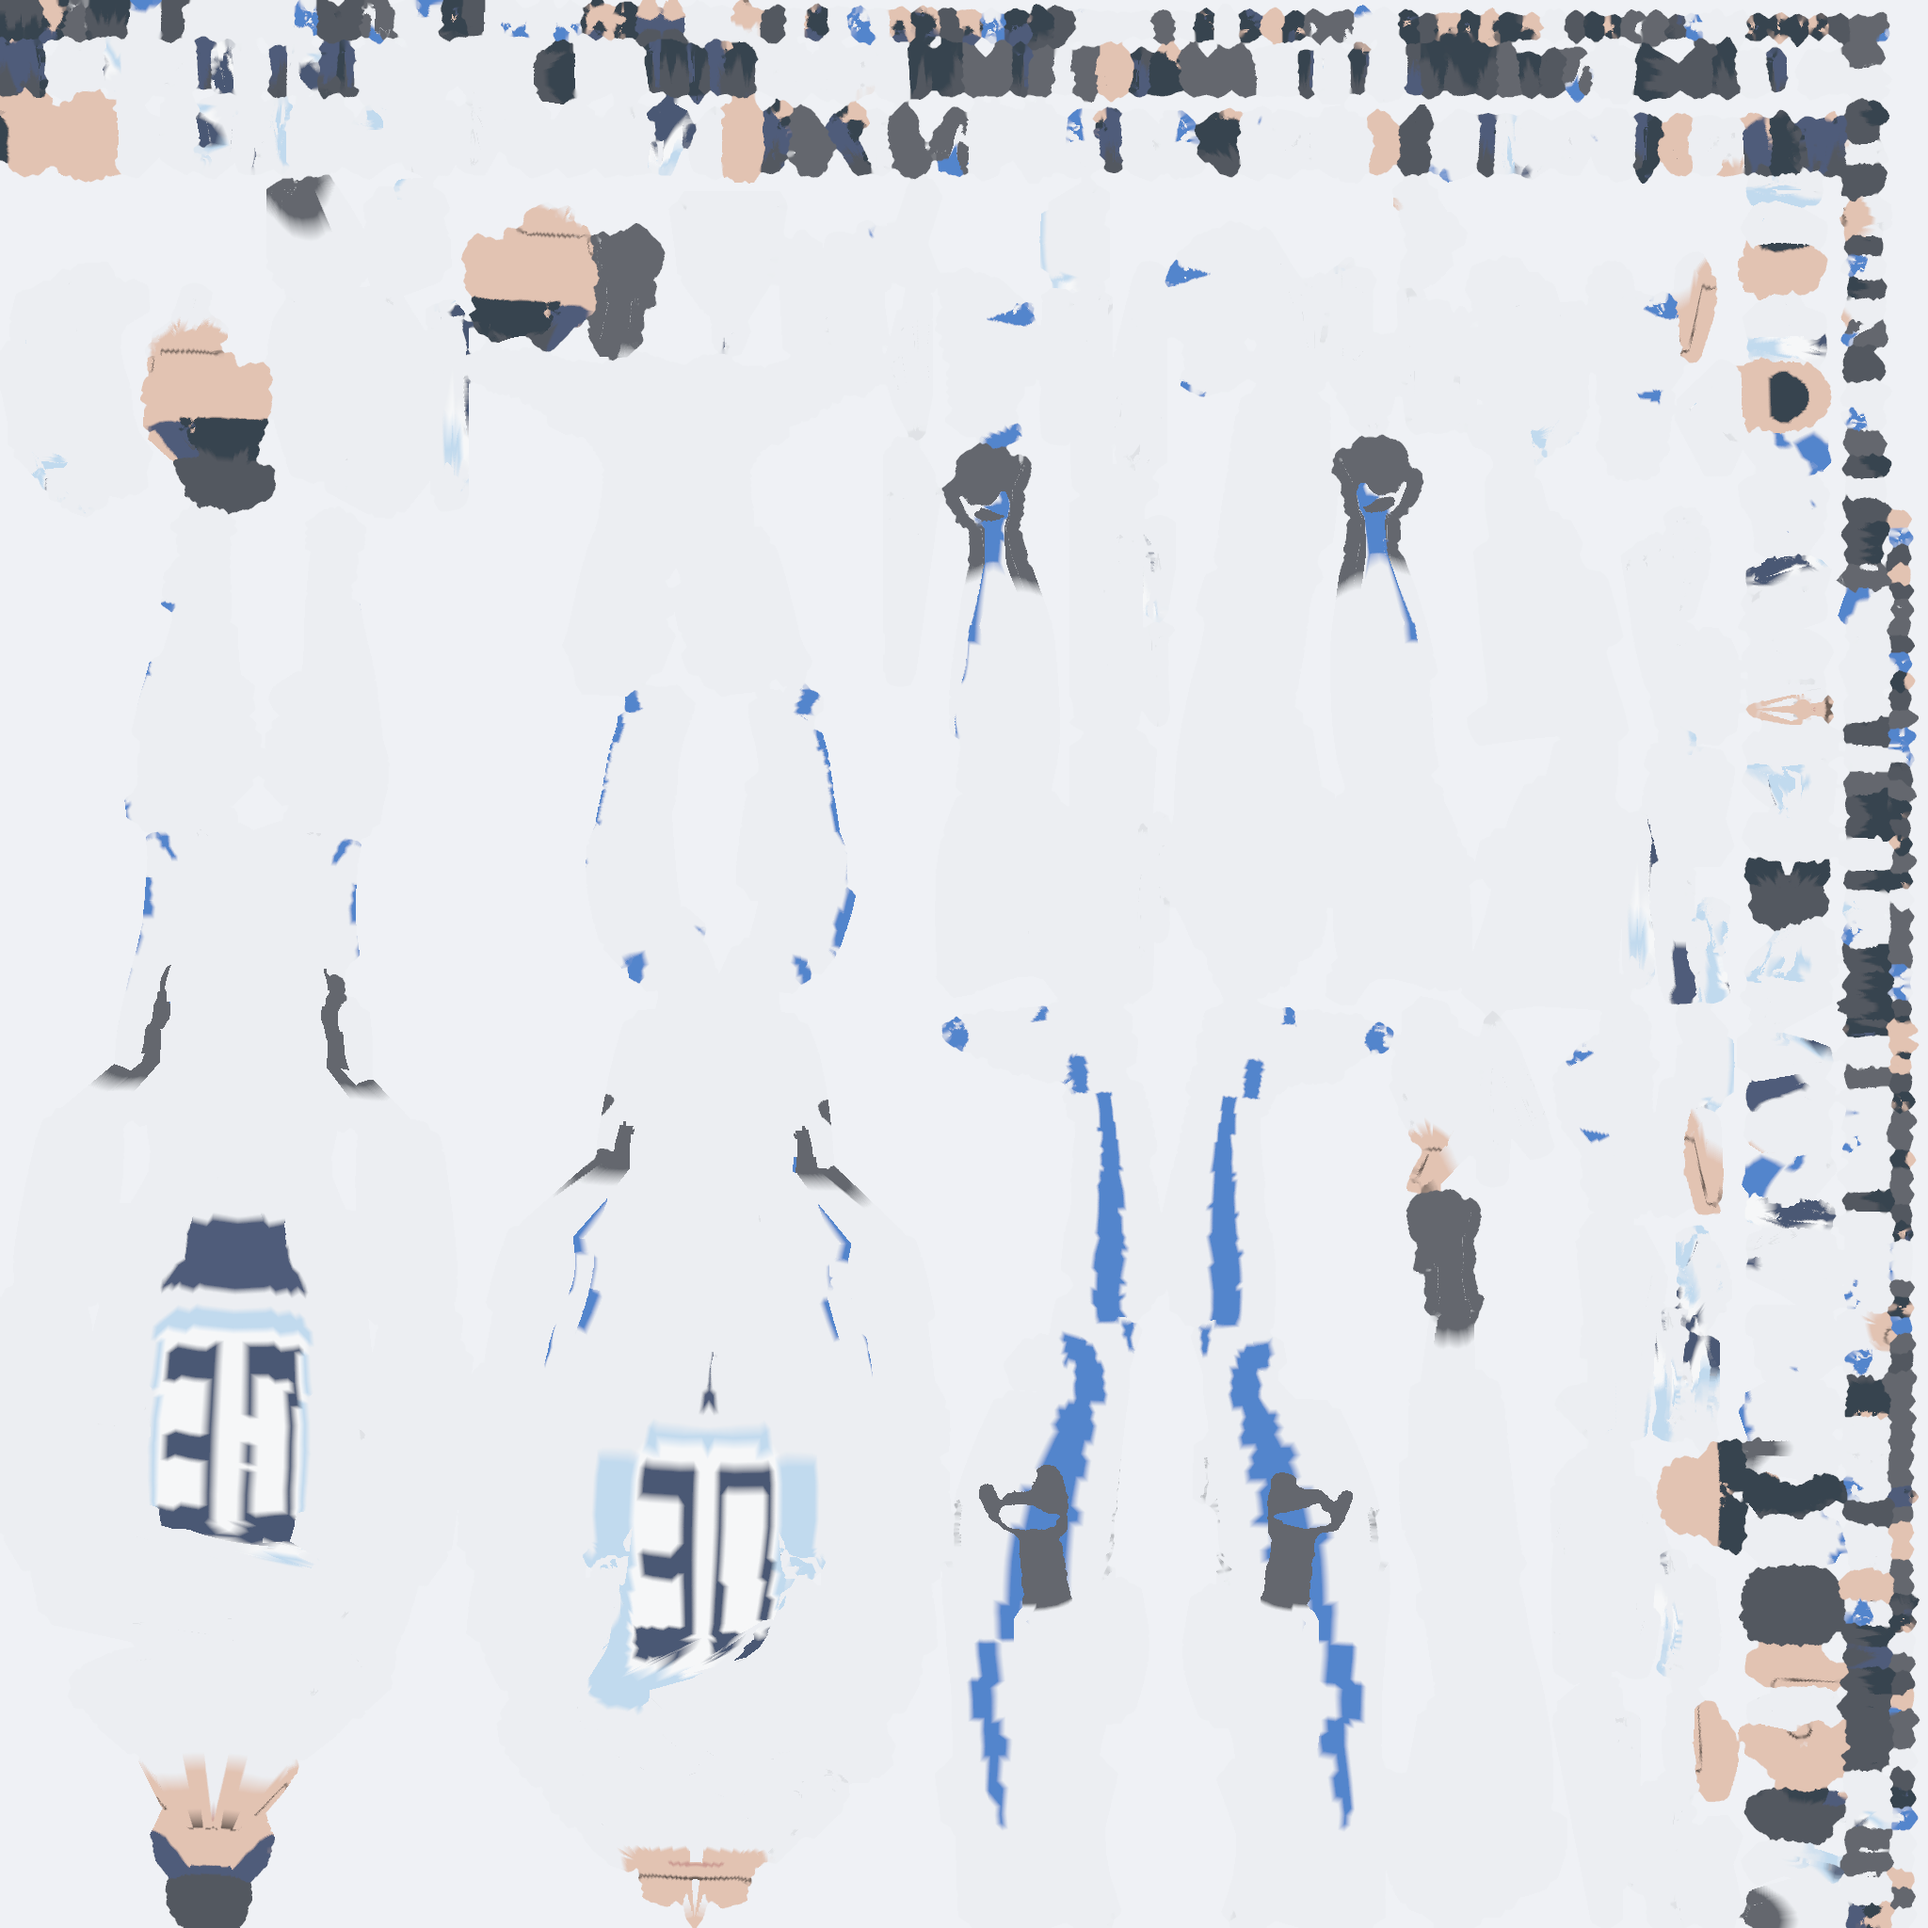
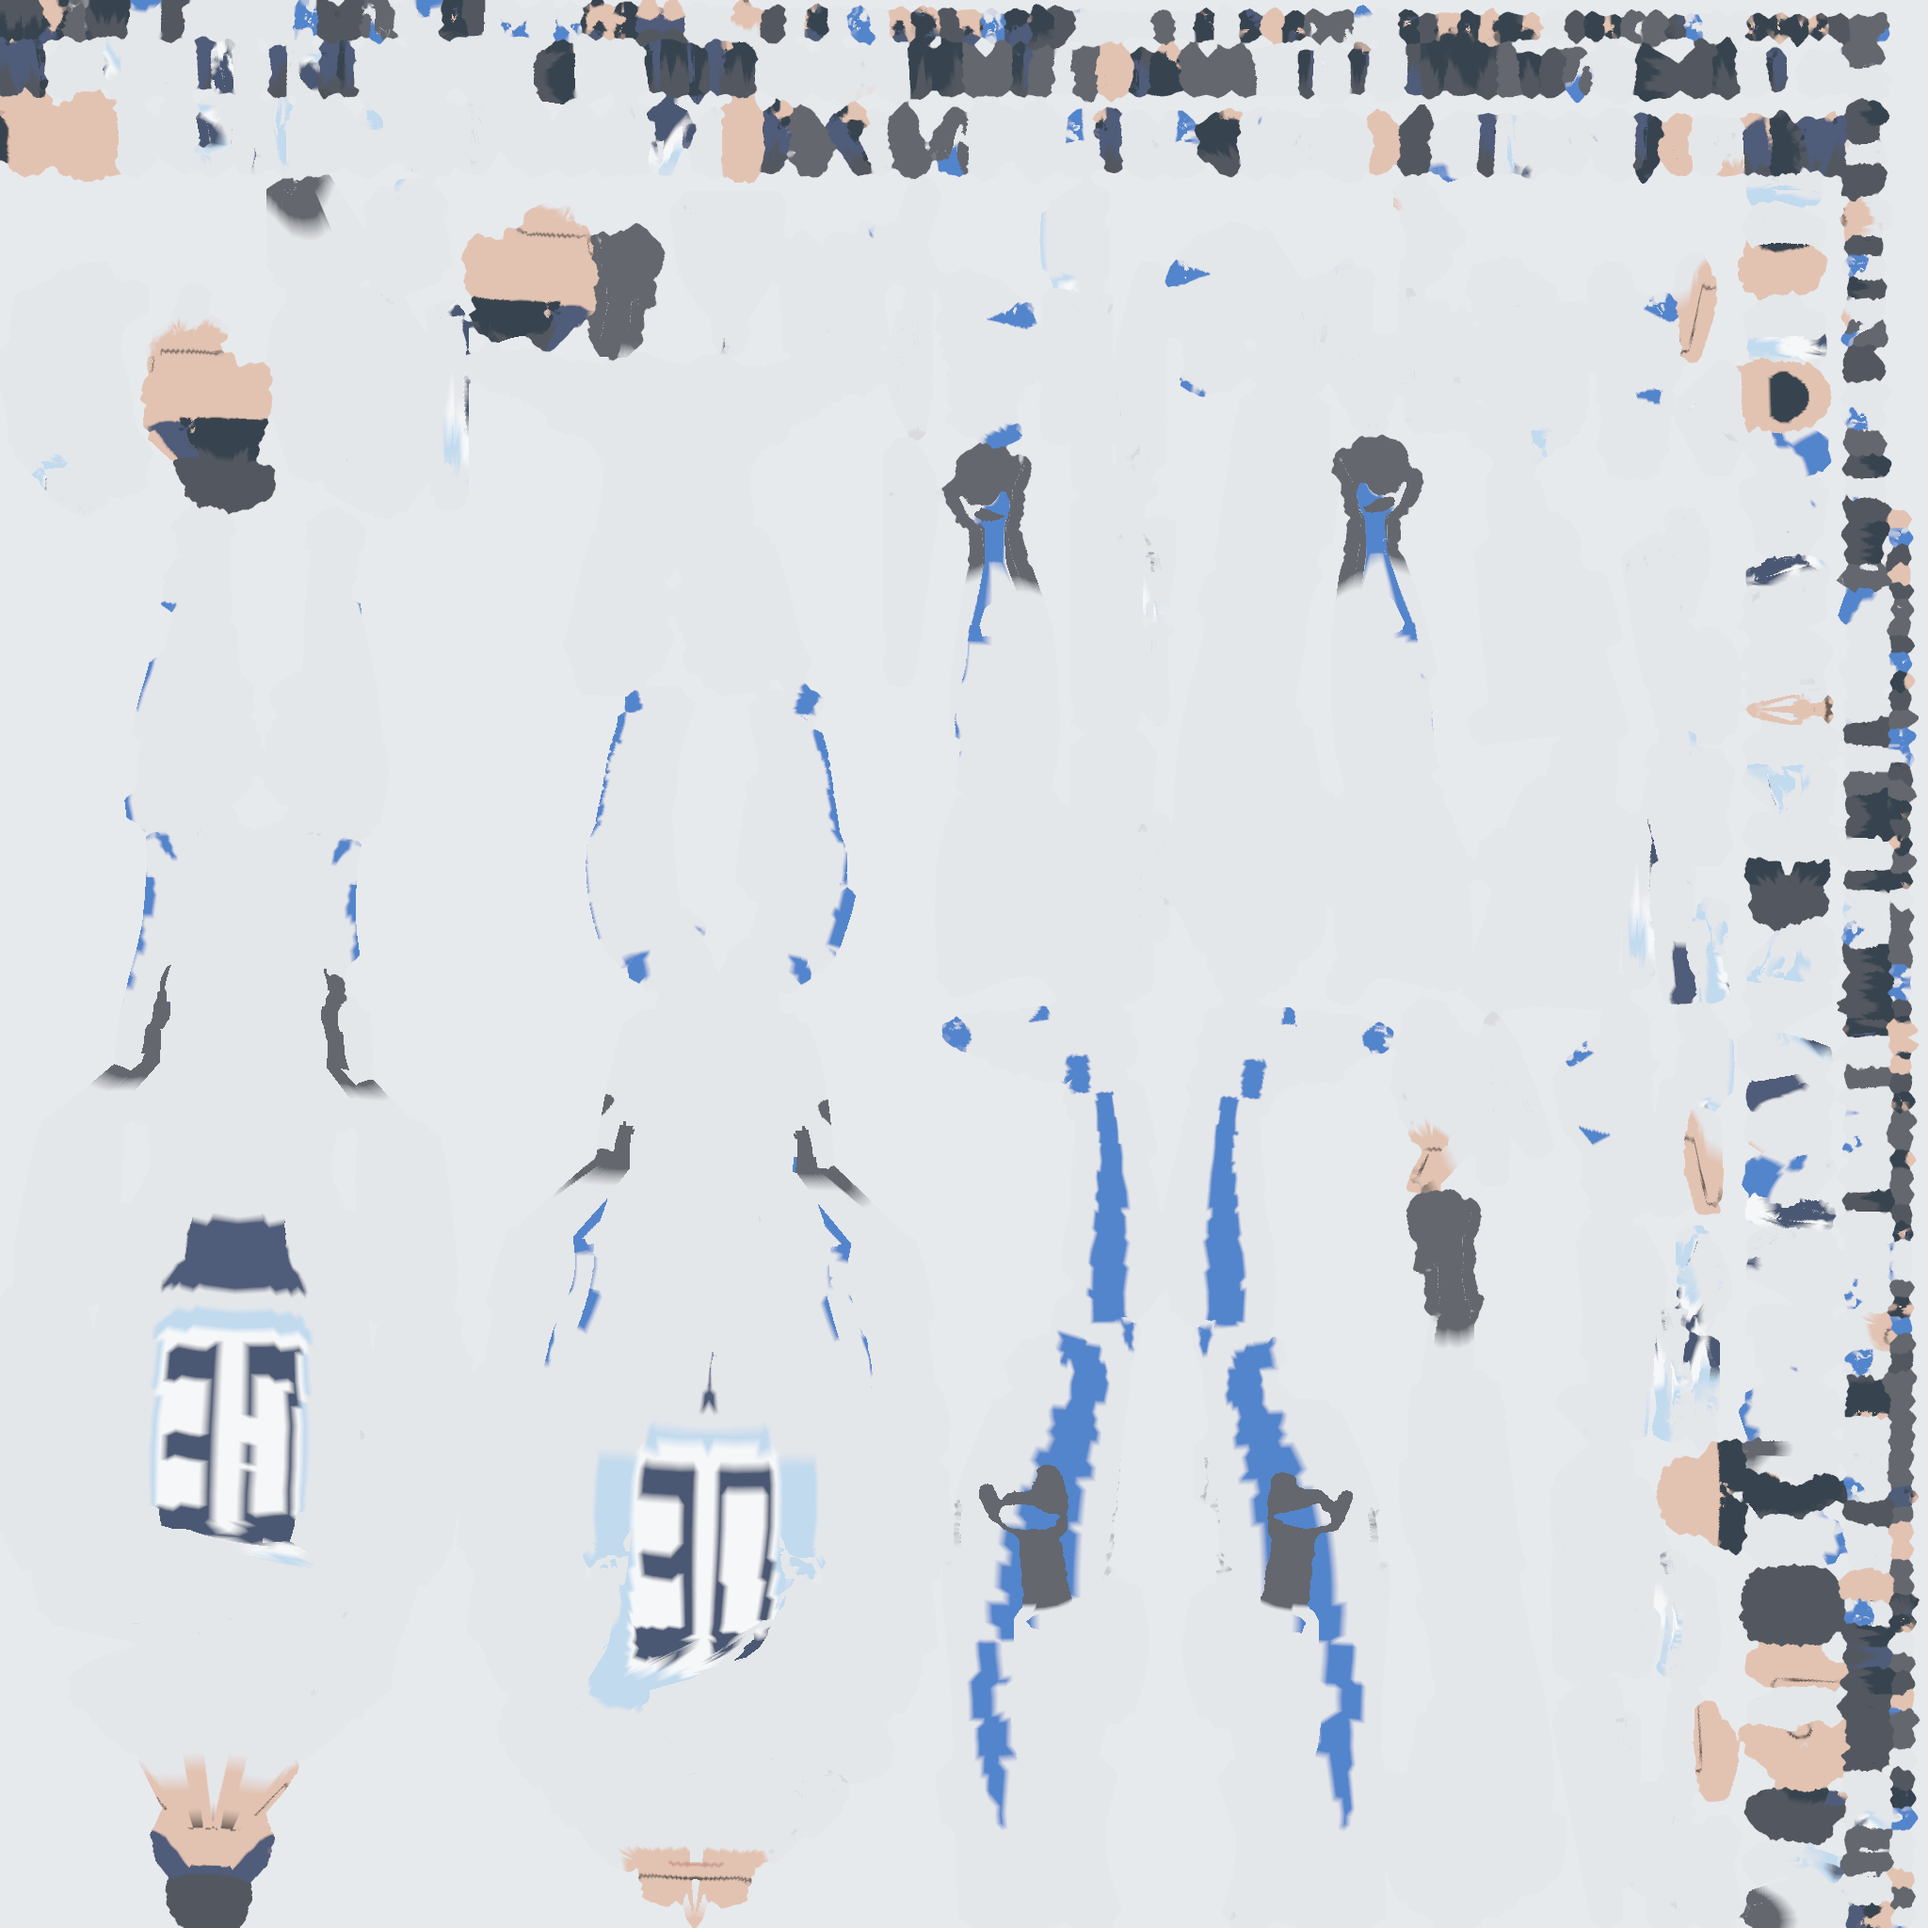
Suit legibility (entry-75 item 2): suit albedo 0.86/0.88/0.91 -> 0.80/0.82/0.82 nope 0.80/0.82/0.85 (b-r pinned at 0.05 to stay under bib-number's blue test) and leg stripe panel 0.26 -> 0.32 rad; one Blender rebuild, ASSET_V 25. Build gates green (bib ink 0.280/0.178, stripe 0.090, NM var 7.02); un

diff --git a/game.js b/game.js
@@ -1444,7 +1444,7 @@ void main(void) {
     // assets did not, so a rebuilt athlete or a re-baked map kept rendering from
     // the browser cache and every change looked like it had not been applied.
     // Bump this whenever assets/ is regenerated.
-    const ASSET_V = '?v=24';   // 24: chest straightened (straighten_chest enabled after the entry-73 seam-fold fix)
+    const ASSET_V = '?v=25';   // 25: suit legibility (entry-75 item 2) — darker suit albedo 0.77/0.80/0.86 + stripe panel 0.26→0.32 rad
                                // bake_trees.py seeds/heights/radial envelopes,
                                // card_0..3 + atlas_0..3
 

diff --git a/blender/build_body.py b/blender/build_body.py
@@ -114,7 +114,7 @@ POSE = MODEL['POSE_UNTUCKED']
 BODY_SEGMENTS = [n for n in SEGMENTS if n not in ('skiL', 'skiR')]
 
 # ── Suit palette, read off the reference footage ────────────────────────────
-SUIT       = (0.86, 0.88, 0.91)      # white race suit, very slightly cool
+SUIT       = (0.80, 0.82, 0.85)      # suit: darker than snow (0.975 albedo) so it separates at 3 m (entry-75 item 2; was 0.86/0.88/0.91). Cool-neutral: b-r stays 0.05, under bib-number.spec's blue threshold (b > r + 0.08)
 STRIPE     = (0.09, 0.24, 0.62)      # royal blue, full length of the outer leg
 BIB        = (0.55, 0.72, 0.88)      # powder-blue competition bib
 BIB_NUMBER = (0.95, 0.96, 0.97)      # white number patch on the bib
@@ -3627,10 +3627,10 @@ def paint_suit(obj, lm):
             azim = limb_azim(lx, ly, z, name, paint_slices)
             outward = 0.0 if out > 0 else math.pi
             dphi = abs(math.atan2(math.sin(azim - outward), math.cos(azim - outward)))
-            # Narrowed from 0.38: at that width the stripe wrapped most of the
-            # way round the shin and the leg read as blue with a white edge
-            # rather than white with a blue stripe.
-            if dphi < 0.26:
+            # Entry-75 item 2: 0.26 read as a pinstripe at 3 m; 0.32 is a
+            # broad panel. Kept under the 0.38 that wrapped most of the way
+            # round the shin and made the leg read all blue.
+            if dphi < 0.32:
                 col, tag = STRIPE, 'stripe'
 
         if bib_mask(name, along, front, lx) > 0.5:

diff --git a/docs/RENDER-PROGRESS.md b/docs/RENDER-PROGRESS.md
@@ -881,6 +881,76 @@ forest.
 
 ## Iterations
 
+### 77 — Suit legibility (entry-75 item 2): suit albedo darkened + stripe
+panel broadened (one Blender rebuild, ASSET_V 25); suit-vs-snow gate built
+and passing; found the canonical face gate broken at HEAD (stale skinned
+bounds + pause/stale-canvas trap) — look.spec reverted, diagnosis recorded
+
+**Order acted on:** entry-75 item 2 ("suit reads near-white … broaden the
+blue panel / darken the albedo; gate on suit-vs-snow luminance delta in
+figure.png"), confirmed as "next" by entry 76.
+
+**Changes (`blender/build_body.py`, ASSET_V 24→25 in `game.js`):**
+- `SUIT` (0.86, 0.88, 0.91) → **(0.80, 0.82, 0.85)** — mean albedo
+  0.883 → 0.823 against snow's 0.975, so the suit separates at 3 m. A first
+  attempt at (0.77, 0.80, 0.86) was REVERTED: its b−r = 0.09 crossed
+  `bib-number.spec`'s blue threshold (`b > r + 0.08`) and the plain suit
+  read as "bib wrapped around the back" (back.blueFrac 0.0950 vs gate 0.09).
+  The shipped tint keeps b−r = 0.05, as before.
+- Leg stripe panel `dphi < 0.26` → **0.32** rad (broad panel, still under
+  the 0.38 that made legs read all-blue; census 291 → 290 blue leg verts —
+  a 3 mm width change at shin scale, as expected).
+- One rebuild (`--res 2048 --samples 96`, 21 s): all build gates green
+  (bib ink 0.280 front / 0.178 back; stripe bake 0.090; suit NM variance
+  7.02 ≥ 6.3; helmet/arm/leg gates unchanged, incl. the two known SOFT
+  gates: ARM 21.7/24.3 mm > 10, chest d/b 1.20 — entry-72 open question).
+
+**SUITGATE (built, PASSING, then reverted with the spec — see below):**
+median luma of a 10 px box on a raycast of the plain upper chest (above the
+bib's top edge) vs the brightest of four side terrain picks: **suit 0.597 vs
+sunlit snow 0.645, delta 0.048 ≥ gate 0.03** (pre-change suit measured
+0.625–0.644 → delta ≈ 0.02, so the gate discriminates). FRONTGATE passed
+throughout (align 0.00°, navyFrac 0.0229).
+
+**Face gate finding (root-caused, not landed):** rerunning `look` at HEAD
+(before any of my spec edits) already FAILED the iteration-76 FACEGATE —
+helmet frame-height fraction 0.1115 vs the 0.4121 shipped in entry 76. The
+40% criterion measured camera-state drift, not geometry: (1) the promised
+r = 0.6 face camera is never actually set in the spec — the shot inherits
+whatever radius the sim's follow camera is at; (2) skinned
+`athleteBody*` parts report stale bind-pose bounds (`refreshBoundingInfo(true)`
+did not move them), so both `_athleteFacing().helmet` and the FACEGATE
+projection aim/measure the wrong point; (3) after the `p` "pause" the render
+loop is still driven and its per-frame callback rewrites `camera.target`,
+and screenshots can return stale canvases — FACEPIX returned byte-identical
+numbers (headFrac 0.1365) across four different camera aimings. Fixing this
+properly needs an explicit aim at the live `head` driver node + a stopped
+render loop + forced `scene.render()` — did not fit the iteration budget.
+
+**Verification:** unit fail 0; golden 30/30 (display-only change, no
+recapture); drive green on the shipped tree: body 4/4, bib-number 1/1
+(after the tint re-derivation), rig 16/16. `look` is RED at HEAD itself
+(FACEGATE 0.1115 < 0.40 on rerun) — pre-existing, see above; my
+look.spec work (SUITGATE + geometric face camera) was reverted to keep the
+shipped suite in its known state. Shots NOT regenerated this iteration; the
+entry-76 shot set remains the latest reviewed imagery. Scratch:
+`~/aerial-agents/scratch/iter-77/build*.log`.
+
+**Open / next:** (1) land the face-camera fix as its own iteration (head
+driver aim + stopRenderLoop + forced render; then re-add SUITGATE — the
+code exists in this iteration's history and measured 0.597 vs 0.645);
+(2) regenerate shots + confirm the darker suit by eye at the canonical
+cameras; (3) entry-75 item 3 (kicker red marks) after the cameras are
+trustworthy again.
+
+**Open questions for the reviewer:** (1) the FACEGATE shipped in entry 76
+passes only on the exact tree/timing it was written on — approve the
+diagnosed rewrite (pixel-based head-coverage gate ≥ 35% on an explicitly
+framed r = 0.6 shot) to replace the bbox-projection criterion? (2) the
+first SUIT tint tripped `bib-number.spec`'s `b > r + 0.08` blue test — is
+that threshold worth re-deriving (it constrains how cool the suit white can
+be), or keep it and treat suit hue as pinned at b−r ≤ 0.05?
+
 
 ### 76 — Canonical cameras fixed GEOMETRICALLY (entry-75 item 1): forward
 read from the root quaternion, not colour-searched; face.png landscape
